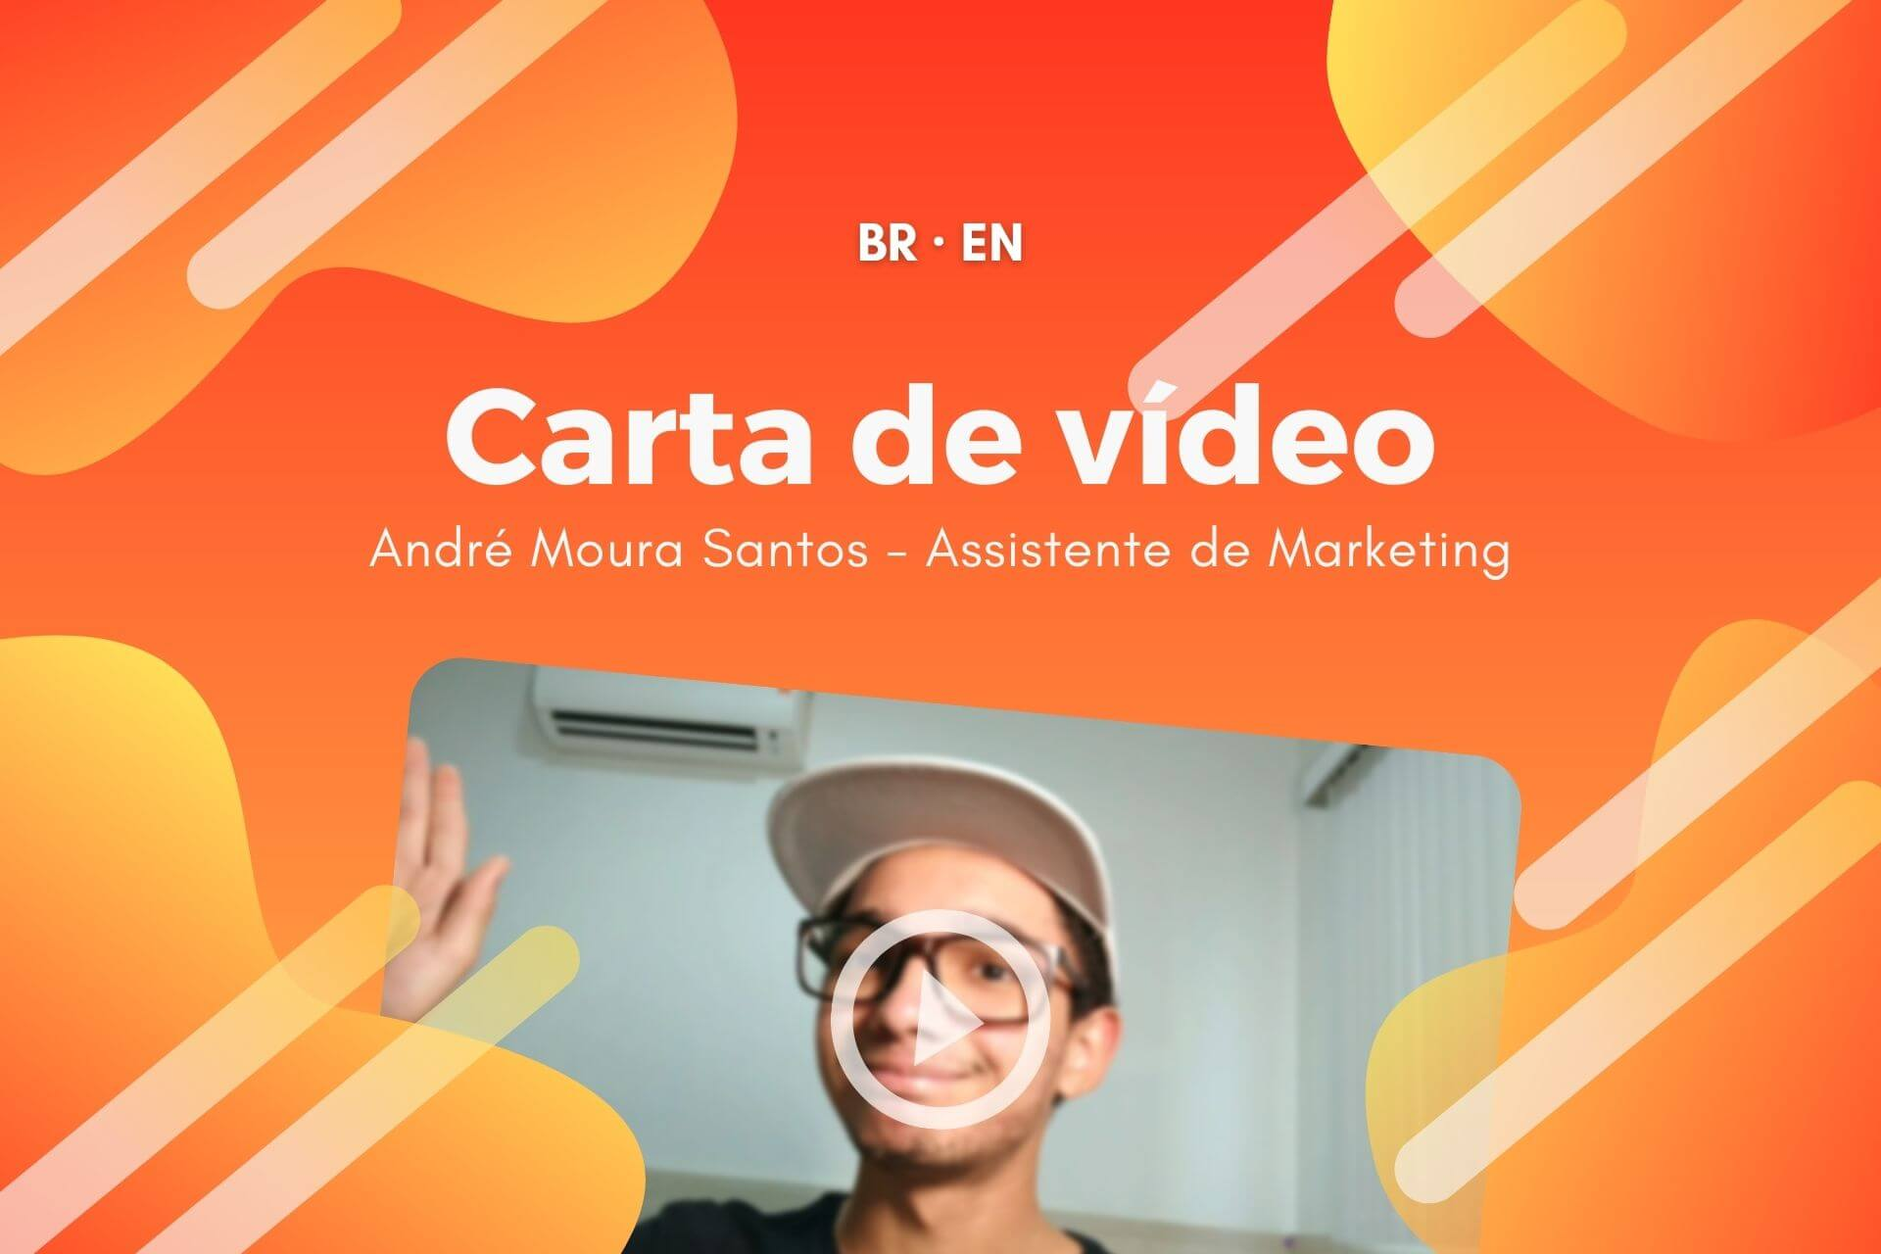
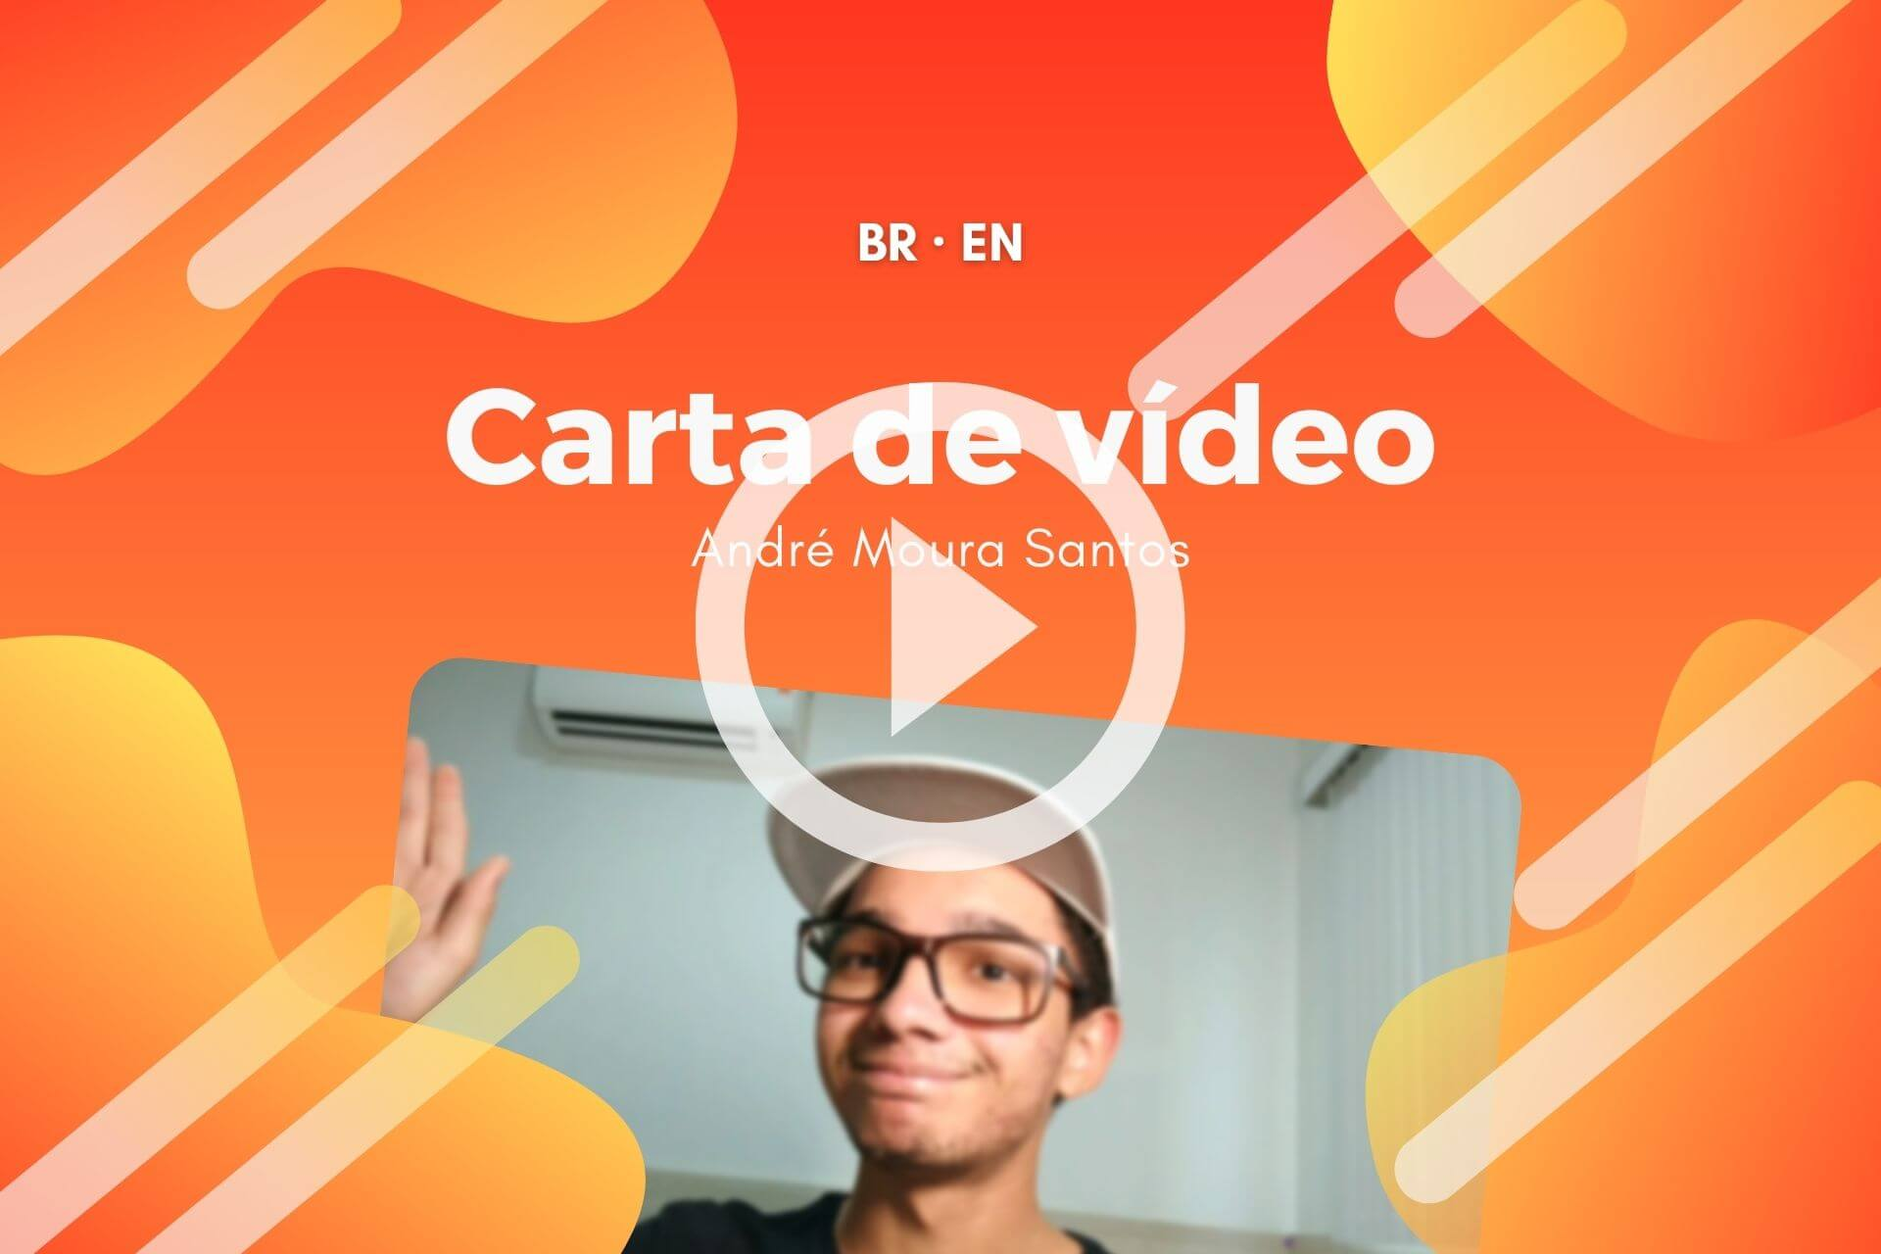
Atualização da 3° semana de Fevereiro/22
- Adicionado redirecionamento completo de URL para outras línguas, levando em conta ID de elementos na URL (ex: #emct) para todas as páginas.
- Adição de nova imagem para fachada do vídeo no YouTube.
- Correção de erros gramaticais.
- Correção de visualização em telas grandes (páginas, popups e outros elementos).
- Otimização do código JavaScript da página Meus projetos.

Changed region(s): [[0.1875, 0.2812, 0.8125, 0.875], [0.4688, 0.875, 0.5312, 0.9062]]

diff --git a/projetos.html b/projetos.html
@@ -69,10 +69,10 @@ height="0" width="0" style="display:none;visibility:hidden"></iframe></noscript>
                 <img loading="lazy" src="imagens/miniaturas/site_profissional.jpg" alt="Miniatura do site de André Moura Santos.">
                 <div>
                     <h2>Site profissional</h2>
-                    <p class="data">2020 - 20XX</p>
+                    <p class="data">2020 - atual</p>
                     <p class="descriçãoCompleta">Texto & Imagens</p>
                     <p>Meu site profissional, esse aqui mesmo que você está navegando agora. Esse projeto começou em 2020 e continua sendo atualizado e aprimora até os dias de hoje.</p>
-                    <button onclick='abrirContainerPopup(); siteProfissionalPopup()'>Ver mais</button>
+                    <button id="abrirPopupsiteProfissional">Ver mais</button>
                 </div>
             </article>
             <article class="cartãoDoProjeto" id="projeto_siteDrAndre">
@@ -82,7 +82,7 @@ height="0" width="0" style="display:none;visibility:hidden"></iframe></noscript>
                     <p class="data">2022</p>
                     <p class="descriçãoCompleta">Texto & Imagens</p>
                     <p>Um site profissional e WhatsApp Business funcionando em sitonia com o objetivo de promover o agendamento de consultas com o médico Dr. André, oftalmologista de carreira na cidade de Porto Velho, RO.</p>
-                    <button onclick='abrirContainerPopup(); siteDrAndréPopup()'>Ver mais</button>
+                    <button id="abrirPopupsiteDrAndré">Ver mais</button>
                 </div>
             </article>
             <article class="cartãoDoProjeto" id="projeto_rebrandingBS">
@@ -92,7 +92,7 @@ height="0" width="0" style="display:none;visibility:hidden"></iframe></noscript>
                     <p class="data">2021</p>
                     <p class="descriçãoCompleta">Texto & Imagens</p>
                     <p>O desafio do Rebranding da Business School (UP) foi idealizado pelo coordenador e professor Luiz Pinheiro. Eu e mais 4 colegas de turma, William, Bessa, Mayara e Pedro, embarcamos de cabeça no projeto e entregamos a marca que hoje é utilizada pela faculdade.</p>
-                    <button onclick='abrirContainerPopup(); rebrandingBSPopup()'>Ver mais</button>
+                    <button id="abrirPopuprebrandingBS">Ver mais</button>
                 </div>
             </article>
             <article class="cartãoDoProjeto" id="projeto_umAndreemCuritiba">
@@ -102,7 +102,7 @@ height="0" width="0" style="display:none;visibility:hidden"></iframe></noscript>
                     <p class="data">2020</p>
                     <p class="descriçãoCompleta">Texto</p>
                     <p>A página no Facebook e Instagram Um André em Curitiba foi criada com o intuito de por em prática os conhecimentos que eu estava adquirindo com meu curso de Marketing na Universidade Positivo e também com o curso de Marketing Digital da USP que eu estava fazendo no Coursera.</p>
-                    <button onclick='abrirContainerPopup(); umAndreemCuritibaPopup()'>Ver mais</button>
+                    <button id="abrirPopupumAndreemCuritiba">Ver mais</button>
                 </div>
             </article>
             <article class="cartãoDoProjeto" id="projeto_intervencaoArtistica">
@@ -112,7 +112,7 @@ height="0" width="0" style="display:none;visibility:hidden"></iframe></noscript>
                     <p class="data">2019</p>
                     <p class="descriçãoCompleta">Texto & Imagens</p>
                     <p>O Projeto Pintura na Parede ocorreu em 2019, no último ano do Ensino Médio. Uma iniciativa e liderança totalmente feita por nós, à época alunos 3° Ano do Ensino Médio Integral.</p>
-                    <button onclick='abrirContainerPopup(); intervençãoArtísticaPopup()'>Ver mais</button>
+                    <button id="abrirPopupintervençãoArtística">Ver mais</button>
                 </div>
             </article>
             <article class="cartãoDoProjeto" id="projeto_wave">
@@ -122,7 +122,7 @@ height="0" width="0" style="display:none;visibility:hidden"></iframe></noscript>
                     <p class="data">2018 - 2019</p>
                     <p class="descriçãoCompleta">Texto & Imagens</p>
                     <p>A WAVE foi uma equipe criada por mim e meus amigos do 2° Ano do Ensino Médio para participar da Olimpíada Brasileira de Robótica (OBR) de 2018.</p>
-                    <button onclick='abrirContainerPopup(); wavePopup()'>Ver mais</button>
+                    <button id="abrirPopupwave">Ver mais</button>
                 </div>
             </article>
             <article class="cartãoDoProjeto" id="projeto_emct">
@@ -132,7 +132,7 @@ height="0" width="0" style="display:none;visibility:hidden"></iframe></noscript>
                     <p class="data">2017 - 2019</p>
                     <p class="descriçãoCompleta">Texto & Imagens</p>
                     <p>Um projeto pessoal de longa duração com o propósito de organizar as atividades, provas e calendários escolares em um único local e disponibilizá-los para todos.</p>
-                    <button onclick='abrirContainerPopup(); ecmtPopup()'>Ver mais</button>
+                    <button id="abrirPopupemct">Ver mais</button>
                 </div>
             </article>
         </div>

diff --git a/en-US/projects.html b/en-US/projects.html
@@ -69,10 +69,10 @@
                 <img loading="lazy" src="/imagens/miniaturas/site_profissional.jpg" alt="Thumbnail of André Moura Santos's website.">
                 <div>
                     <h2>Professional website</h2>
-                    <p class="data">2020 - 20XX</p>
+                    <p class="data">2020 - now</p>
                     <p class="translateoff">Only in Portuguese</p>
                     <p>My professional website, this one that you're in right now. This project started in 2020 and it is still being updated nowadays.</p>
-                    <button onclick='abrirContainerPopup(); siteProfissionalPopup()'>View</button>
+                    <button id="abrirPopupsiteProfissional">View</button>
                 </div>
             </article>
             <article class="cartãoDoProjeto" id="projeto_siteDrAndre">
@@ -82,7 +82,7 @@
                     <p class="data">2022</p>
                     <p class="translateoff">Only in Portuguese</p>
                     <p>A professional website and WhatsApp Business Account working together with one objective: Get more patients to Dr. André, an ophthalmologist with more than 18 years of work in the city.</p>
-                    <button onclick='abrirContainerPopup(); siteDrAndréPopup()'>View</button>
+                    <button id="abrirPopupsiteDrAndré">View</button>
                 </div>
             </article>
             <article class="cartãoDoProjeto" id="projeto_rebrandingBS">
@@ -92,7 +92,7 @@
                     <p class="data">2021</p>
                     <p class="translateoff">Only in Portuguese</p>
                     <p>The Business School's Rebranding Challenge was a project promoted by our coordinator and guided by our professor to rethink our Business School and gave to them a new and revitalized look.</p>
-                    <button onclick='abrirContainerPopup(); rebrandingBSPopup()'>View</button>
+                    <button id="abrirPopuprebrandingBS">View</button>
                 </div>
             </article>
             <article class="cartãoDoProjeto" id="projeto_umAndreemCuritiba">
@@ -102,7 +102,7 @@
                     <p class="data">2020</p>
                     <p class="translateon">Available in English</p>
                     <p>A Facebook Page and Instagram Profile about me, that's what Um André em Curitiba project was all about. I managed that account to put into practice the Digital Marketing course fundamentals that I was learning by the time.</p>
-                    <button onclick='abrirContainerPopup(); umAndreemCuritibaPopup()'>View</button>
+                    <button id="abrirPopupumAndreemCuritiba">View</button>
                 </div>
             </article>
             <article class="cartãoDoProjeto" id="projeto_intervencaoArtistica">
@@ -112,7 +112,7 @@
                     <p class="data">2019</p>
                     <p class="translateon">Available in English</p>
                     <p>A project about leaving a mark on the place that me and my friends met each other, shared stories, opinions and moments together.</p>
-                    <button onclick='abrirContainerPopup(); intervençãoArtísticaPopup()'>View</button>
+                    <button id="abrirPopupintervençãoArtística">View</button>
                 </div>
             </article>
             <article class="cartãoDoProjeto" id="projeto_wave">
@@ -122,7 +122,7 @@
                     <p class="data">2018 - 2019</p>
                     <p class="translateon">Available in English</p>
                     <p>The WAVE Robotics Team was a team created to participate in the Brazilian Olympics of Robotics (OBR) in 2018, during our High School.</p>
-                    <button onclick='abrirContainerPopup(); wavePopup()'>View</button>
+                    <button id="abrirPopupwave">View</button>
                 </div>
             </article>
             <article class="cartãoDoProjeto" id="projeto_emct">
@@ -132,7 +132,7 @@
                     <p class="data">2017 - 2019</p>
                     <p class="translateoff">Only in Portuguese</p>
                     <p>A big project with an objective to organize all the schedules, papers, deadlines and homework passed by our teachers in the High School in one place.</p>
-                    <button onclick='abrirContainerPopup(); ecmtPopup()'>View</button>
+                    <button id="abrirPopupemct">View</button>
                 </div>
             </article>
         </div>

diff --git a/projetos.js b/projetos.js
@@ -1,28 +1,30 @@
 const popupContainer = document.getElementById('popupcontainer')
 const html = document.querySelector('html')
+let atalho = window.location.href.split('#')[1]
 let idioma = window.navigator.userLanguage || window.navigator.language;
 
 if (window.location.pathname.includes('en-US')) {
-    if (idioma == 'pt-BR') {window.location.replace(`/projetos.html`)} else {}
+    if (idioma == 'pt-BR') {window.location.replace(`/projetos.html${atalho != undefined ? `#${atalho}`: ''}`)} else {}
 } else {
-    if (idioma == 'pt-BR') {} else {window.location.replace(`/en-US/projects.html`)}
+    if (idioma == 'pt-BR') {} else {window.location.replace(`/en-US/projects.html${atalho != undefined ? `#${atalho}`: ''}`)}
 }
+
+console.log(atalho != undefined ? `#${atalho}`: '')
 
 //↑ CONFIGURAÇÕES
 
 // ↓ POPUPS ↓
-function abrirContainerPopup() {
-    var nodes = document.getElementById('popupcontainer').childNodes;
-    for(var i=0; i<nodes.length; i++) {
-        if (nodes[i].nodeName.toLowerCase() == 'div') {
-            nodes[i].style.animation = '250ms linear abrirPopup';
-        }}
+document.querySelectorAll('*[id^="abrirPopup"]').forEach(item => item.addEventListener('click', function(){
     setTimeout(() => {
+        var idDoPopup = document.querySelector('#' + this.id.replace('abrirPopup', ''))
+
         popupContainer.style.display = 'flex'
         html.style.scrollBahavior = 'auto'
         html.style.overflowY = 'hidden'
+        idDoPopup.style.animation = '250ms linear abrirPopup'
+        idDoPopup.style.display = 'block'
     }, 250);
-}
+}))
 
 function fecharPopup() {
     var nodes = document.getElementById('popupcontainer').childNodes;
@@ -39,39 +41,4 @@ function fecharPopup() {
         html.style.scrollBahavior = 'smooth'
         html.style.overflowY = 'auto'
     }, 250);
-}
-
-// ↓ SITE PROFISSIONAL ↓
-function siteProfissionalPopup() {
-    document.getElementById('siteProfissional').style.display = 'block'
-}
-
-// ↓ SITE DR. ANDRÉ ↓
-function siteDrAndréPopup() {
-    document.getElementById('siteDrAndré').style.display = 'block'
-}
-
-// ↓ REBRANDING DA BUSINESS SCHOOL ↓
-function rebrandingBSPopup() {
-    document.getElementById('rebrandingBS').style.display = 'block'
-}
-
-// ↓ UM ANDRÉ EM CURITIBA ↓
-function umAndreemCuritibaPopup() {
-    document.getElementById('umAndreemCuritiba').style.display = 'block'
-}
-
-// ↓ INTERVENÇÃO ARTÍSTICA ↓
-function intervençãoArtísticaPopup() {
-    document.getElementById('intervençãoArtística').style.display = 'block'
-}
-
-// ↓ WAVE ↓
-function wavePopup() {
-    document.getElementById('wave').style.display = 'block'
-}
-
-// ↓ EMCT ↓
-function ecmtPopup() {
-    document.getElementById('emct').style.display = 'block'
 }

diff --git a/en-US/bio.html b/en-US/bio.html
@@ -17,8 +17,8 @@
 
     <!-- SEO TAGS -->
     <meta property="og:title" content="Bio | André - Digital Marketing">
-    <meta property="og:description" content="See the André Moura Santos Bio and get access to shortcuts to the website, curriculum-vitae & certificates, video letter and more! You can find contact info here too.">
-    <meta name="description" content="See the André Moura Santos Bio and get access to shortcuts to the website, curriculum-vitae & certificates, video letter and more! You can find contact info here too.">
+    <meta property="og:description" content="See the André Moura Santos Bio and get access to shortcuts to the website, resume & certificates, video letter and more! You can find contact info here too.">
+    <meta name="description" content="See the André Moura Santos Bio and get access to shortcuts to the website, resume & certificates, video letter and more! You can find contact info here too.">
     <meta property="og:type" content="blog">
     <meta property="og:url" content="www.andremourasantos.com">
     <meta name="image" property="og:image" content="https://andremourasantos.com/imagens/miniaturas/site_profissional(en_US).jpg">
@@ -133,8 +133,8 @@
             <img loading="lazy" src="/imagens/bio/graduação.webp" alt="Blue graduation cap icon." width="80" height="80">
         </div>
         <div class="texto">
-            <h2>Curriculum-vitae</h2>
-            <p>See my curriculum-vitae and certificates to take an overview about my abilities.</p>
+            <h2>Resume</h2>
+            <p>See my curriculum-vitae and certificates to get an overview about my abilities.</p>
         </div>
         <a href="https://link.andremourasantos.com/curriculo" target="_blank" rel="noopener noreferrer">View</a>
     </article>

diff --git a/en-US/index.html b/en-US/index.html
@@ -80,7 +80,7 @@
                             <li class="hab03">Front-end Dev (HTML, CSS & JS)</li>
                             <li class="hab03">Google Ads & Analytics</li>
                             <li class="hab03">Google Tag Manager</li>
-                            <li class="hab01">Google Suite</li>
+                            <li class="hab01">Google Workspace Apps</li>
                             <li class="hab03">Advanced English</li>
                             <li class="hab03">Marketing</li>
                             <li class="hab03">Digital Marketing</li>
@@ -367,8 +367,8 @@
         <div class="container-conhecimentos">
             <div id="currículo">
                 <div id="currículo-txt">
-                    <h3>Curriculum-vitae</h3>
-                    <p>View my soft and hard skills as well as contact information and be aware of my academic background and professional experiences.</p>
+                    <h3>Resume</h3>
+                    <p>See my soft and hard skills as well as contact information and be aware of my academic background and professional experiences.</p>
                     <button id="abrirPopupCurrículo" class="botãoMeusConhecimentos">View</button>
                 </div>
                 <div id="currículo-img">

diff --git a/index.css b/index.css
@@ -278,13 +278,8 @@ div.separação > hr {
             cursor: pointer;
             background-image: url(imagens/miniaturas/carta_de_video.jpg);
             background-size: cover;
+            background-position: center;
             border-radius: 20px;
-        }
-
-        #video-iframe::before {
-            content: url(/imagens/youtube-player.webp);
-            position: absolute;
-            inset: 30% 40%;
         }
 
         #apresentação-video iframe {
@@ -513,6 +508,7 @@ div.separação > hr {
         background-color: white;
         width: 350px;
         height: fit-content;
+        max-height: 80vh;
         box-shadow: 0px 0px 10px white;
         border-radius: 20px;
         text-align: center;
@@ -701,7 +697,7 @@ div.separação > hr {
        justify-content: center;
        overflow-y: overlay;
        overflow-x: hidden;
-       height: 80vh;
+       max-height: 80vh;
     }
 
     div.popupCertificados p {

diff --git a/index.html b/index.html
@@ -77,7 +77,7 @@
                             <li class="hab03">Front-end Dev (HTML, CSS & JS)</li>
                             <li class="hab03">Google Ads & Analytics</li>
                             <li class="hab03">Google Tag Manager</li>
-                            <li class="hab01">Google Suíte</li>
+                            <li class="hab01">Aplicativos do Google Workpsace</li>
                             <li class="hab03">Inglês Avançado</li>
                             <li class="hab03">Marketing</li>
                             <li class="hab03">Marketing Digital</li>

diff --git a/index.js b/index.js
@@ -13,9 +13,9 @@ let computador = false
 let contadorCliquesVideo = 0
 
 if (window.location.pathname.includes('en-US')) {
-    if (idioma == 'pt-BR') {window.location.replace(`/index.html`)} else {}
+    if (idioma == 'pt-BR') {window.location.replace(`/index.html${atalho != undefined ? `#${atalho}`: ''}`)} else {}
 } else {
-    if (idioma == 'pt-BR') {} else {window.location.replace(`/en-US/index.html`)}
+    if (idioma == 'pt-BR') {} else {window.location.replace(`/en-US/index.html${atalho != undefined ? `#${atalho}`: ''}`)}
 }
 
 function checarDispositivo(){

diff --git a/bio.js b/bio.js
@@ -14,9 +14,9 @@ let computador = false
 
 
 if (window.location.pathname.includes('en-US')) {
-    if (idioma == 'pt-BR') {window.location.replace(`/bio.html`)} else {}
+    if (idioma == 'pt-BR') {window.location.replace(`/bio.html${atalho != undefined ? `#${atalho}`: ''}`)} else {}
 } else {
-    if (idioma == 'pt-BR') {} else {window.location.replace(`/en-US/bio.html`)}
+    if (idioma == 'pt-BR') {} else {window.location.replace(`/en-US/bio.html${atalho != undefined ? `#${atalho}`: ''}`)}
 }
 
 function checarDispositivo(){

diff --git a/projetos.css b/projetos.css
@@ -121,7 +121,7 @@ header.universal {
     align-items: center;
     justify-content: center;
     gap: 10vh;
-    padding: 10vh 10vw;
+    padding: 10vh 5vw;
 }
 
 #gradeProjetos {
@@ -277,6 +277,7 @@ footer a {
 #popupcontainer > * {
     display: none;
     width: 50vw;
+    max-width: 500px;
     padding: 5vw;
     height: fit-content;
     max-height: 70vh;

diff --git a/universal.css b/universal.css
@@ -72,6 +72,11 @@ html {
     scroll-behavior: smooth;
 }
 
+body {
+    max-width: 1440px;
+    margin: auto;
+}
+
 h1, h2, h3 {
     font-family: var(--título);
 }
